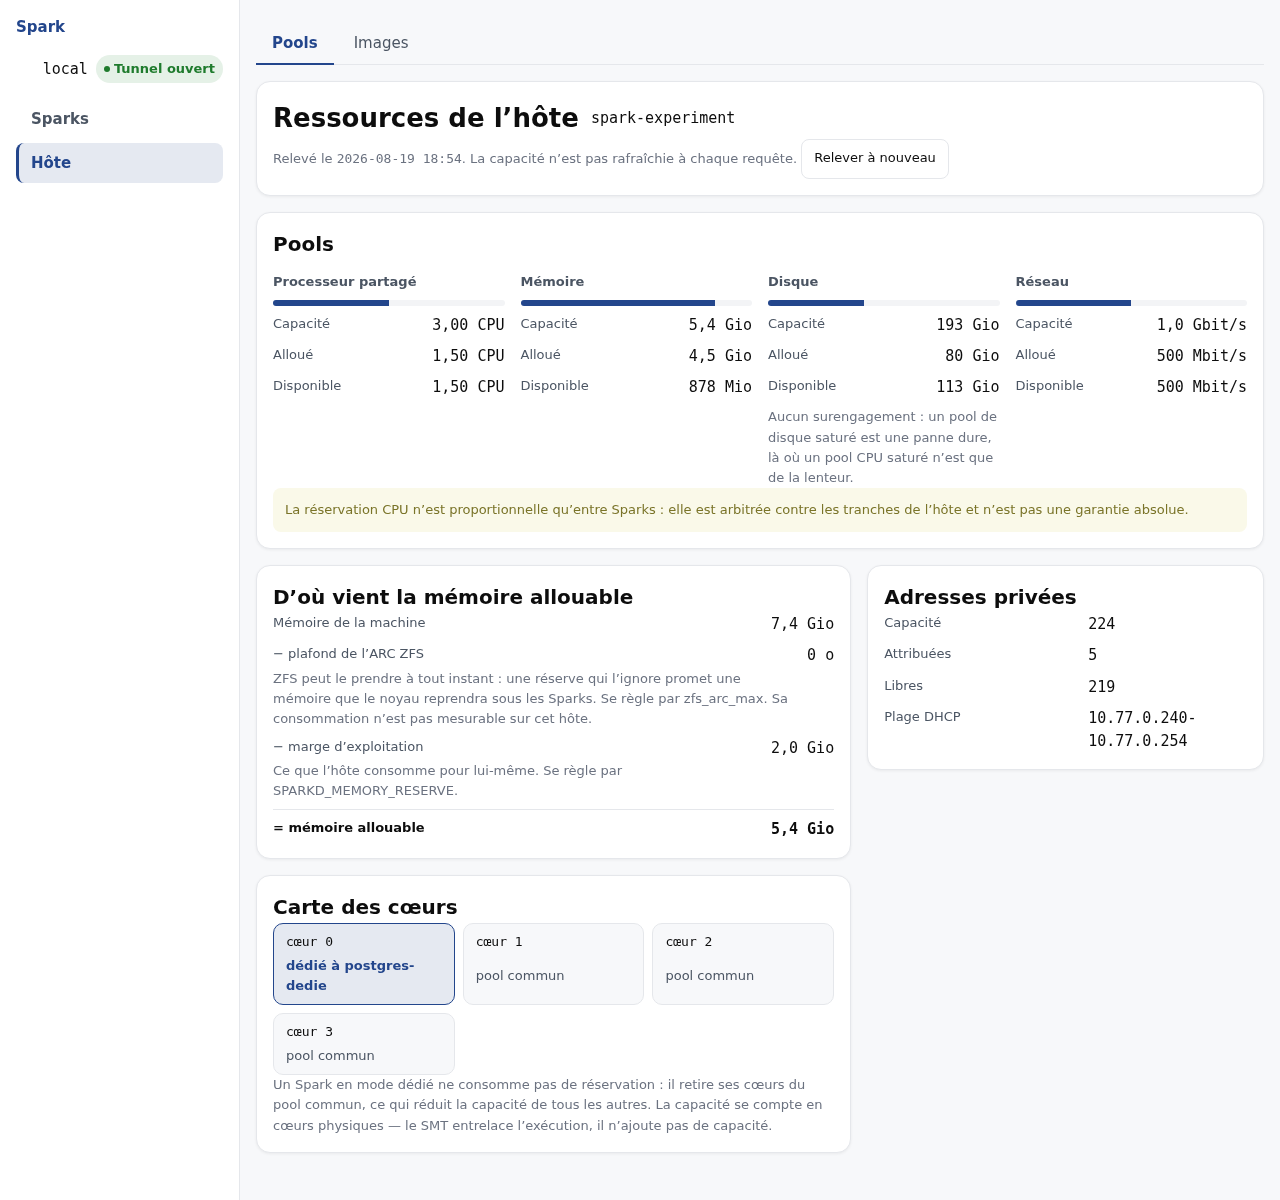
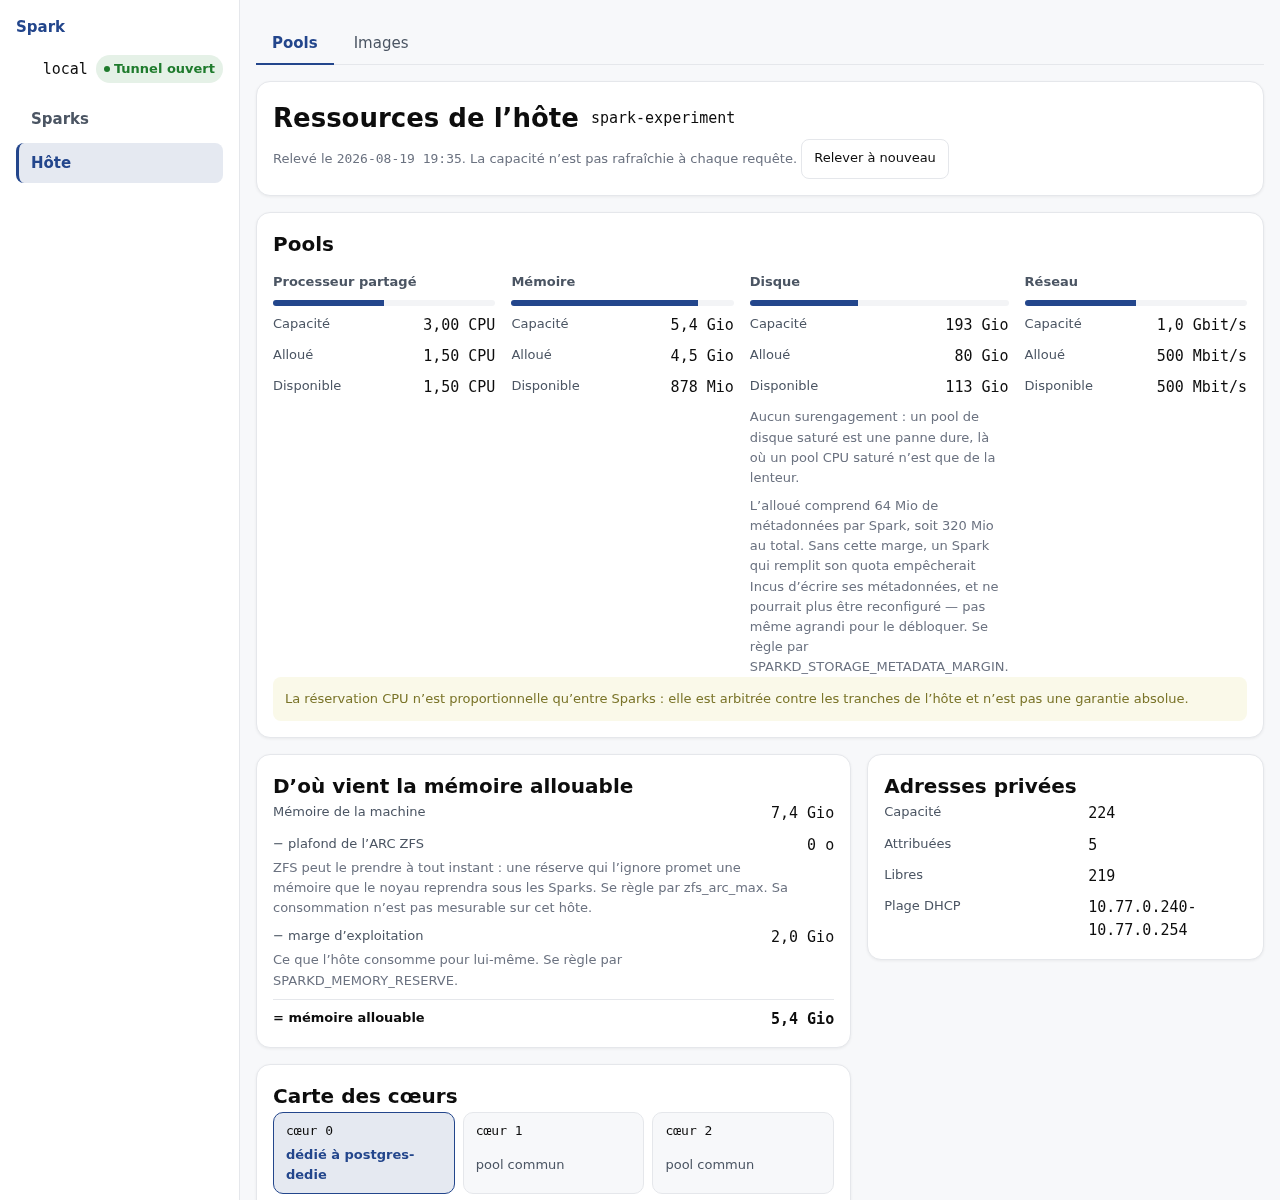
Explique au manuel pourquoi l'alloué du disque dépasse les tailles vendues
Nouveau message à l'écran, donc nouveau passage au manuel : M4 dit d'où vient
l'écart, ce que la marge protège — le locataire qui sature son disque ne vous
enferme plus dehors —, qu'elle est comptée parce qu'elle est réellement prise,
et qu'elle reste invisible du locataire, dont la limite demeure ce qui lui a été
vendu. L'illustration est reproduite depuis l'application, sur la pile seedée :
cinq Sparks, 320 Mio de marge annoncés.

diff --git a/docs/manuel/M4-pools.md b/docs/manuel/M4-pools.md
@@ -43,6 +43,28 @@ vide.
 Tant que la topologie n'a pas été relevée depuis la migration qui distingue les
 deux termes, l'écran affiche la somme sans inventer sa répartition.
 
+## Pourquoi l'alloué du disque dépasse la somme des tailles vendues
+
+Additionnez cinq Sparks de 10 Gio, l'écran en annonce un peu plus. L'écart est
+voulu, et l'écran le nomme sous la carte du disque.
+
+Le quota posé sur chaque Spark n'est jamais exactement la taille vendue : une
+**marge de métadonnées** s'y ajoute, invisible du locataire. Sans elle, un Spark
+qui remplit son disque empêche le runtime d'écrire ses propres métadonnées à
+l'intérieur du même quota — et à partir de là, plus aucune reconfiguration ne
+passe, pas même l'agrandissement qui débloquerait la situation. Autrement dit :
+sans cette marge, un locataire qui sature son disque vous enferme dehors.
+
+La marge est réellement prise sur le pool, elle est donc comptée : l'alloué que
+vous lisez est ce qui est réellement engagé, et non ce qui a été promis.
+
+Le locataire, lui, ne la voit jamais : la limite de son Spark reste ce que vous
+lui avez vendu, et il atteindra bien 100 % à cette valeur. La marge n'est pas de
+l'espace offert, c'est de la place gardée.
+
+Elle se règle par `SPARKD_STORAGE_METADATA_MARGIN`, et l'écran le rappelle. La
+poser à zéro est possible et supprime le remède avec elle.
+
 ## Le surengagement
 
 Une capacité de « 4 cœurs × 2 » n'est pas huit processeurs. Le facteur est donc
